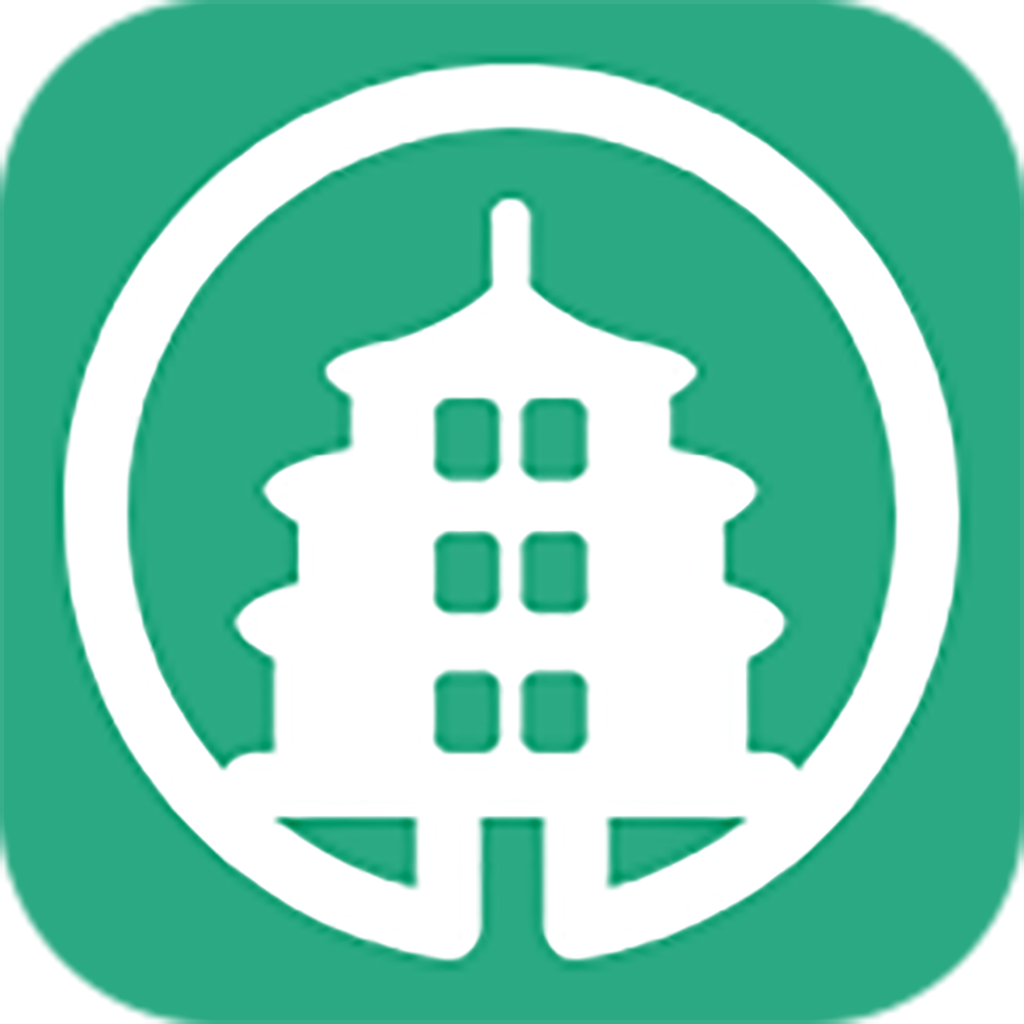
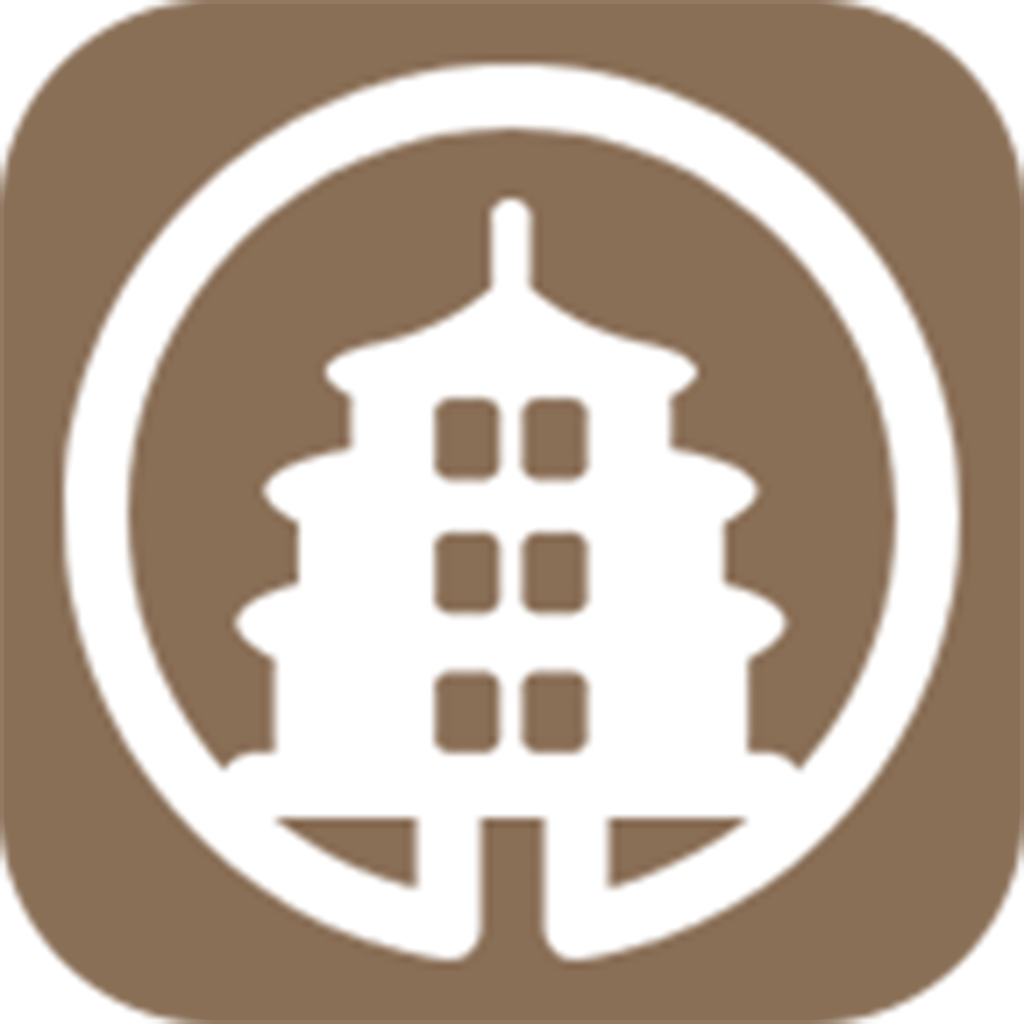
更换resources

diff --git a/src/theme/variables.scss b/src/theme/variables.scss
@@ -21,7 +21,7 @@ $app-direction: ltr;
 // to match your app's branding. Ionic uses a Sass map of
 // colors so you can add, rename and remove colors as needed.
 // The "primary" color is the only required color in the map.
-$colors: ( primary: #826d51, secondary: #826d51, tertiary: #ff8a0f, danger: #f53d3d, light: #f4f4f4, dark: #888, background: #f7f7f7, grayText: #bbb, avater: #EDAA45, border: #f0f0f0, shadow: #d9d9d9, phoneNo:#4d7898);
+$colors: ( primary: #826c50, secondary: #826c50, tertiary: #ff8a0f, danger: #f53d3d, light: #f4f4f4, dark: #888, background: #f7f7f7, grayText: #bbb, avater: #EDAA45, border: #f0f0f0, shadow: #d9d9d9, phoneNo:#4d7898);
 $toolbar-background:color($colors, primary, base);
 $img-placeholder-background: #EDAA45;
 // App iOS Variables
@@ -533,7 +533,7 @@ ion-footer {
     transform: translate(-50%, -50%);
     text-align: center;
 }
-.requiredContent,{
+.requiredContent{
     position:relative;
     display: inline-block;
     font-family: "Ionicons";
